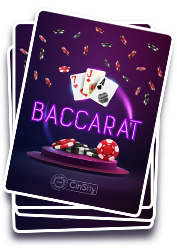
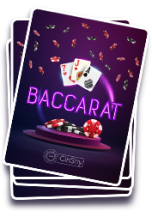
resized some assets and update positions

diff --git a/src/pages/Games/Baccarat/index.jsx b/src/pages/Games/Baccarat/index.jsx
@@ -1,6 +1,6 @@
 import React from "react";
 import MainLayout from "../../../components/MainLayout";
-import { font } from "./utils/fonts";
+import { font, font2 } from "./utils/fonts";
 import { aboutContentImage, aboutWindowImage, backgroundImage, betBarImage, btnAboutImage, btnClearImage, btnDealImage, btnFullscreenImage, btnMenuImage, btnPlayImage, btnSoundImage, btnStandImage, cardBackImage, cardClubTenImage, cardClubAImage, cardClubTwoImage, cardClubThreeImage, cardClubFourImage, cardClubFiveImage, cardClubSixImage, cardClubSevenImage, cardClubEightImage, cardClubNineImage, cardClubJImage, cardClubKImage, cardClubQImage, cardDiamondTenImage, cardDiamondAImage, cardDiamondTwoImage, cardDiamondThreeImage, cardDiamondFourImage, cardDiamondFiveImage, cardDiamondSixImage, cardDiamondSevenImage, cardDiamondEightImage, cardDiamondNineImage, cardDiamondJImage, cardDiamondKImage, cardDiamondQImage, cardHeartTenImage, cardHeartAImage, cardHeartTwoImage, cardHeartThreeImage, cardHeartFourImage, cardHeartFiveImage, cardHeartSixImage, cardHeartSevenImage, cardHeartEightImage, cardHeartNineImage, cardHeartJImage, cardHeartKImage, cardHeartQImage, cardsImage, cardSpadeTenImage, cardSpadeAImage, cardSpadeTwoImage, cardSpadeThreeImage, cardSpadeFourImage, cardSpadeFiveImage, cardSpadeSixImage, cardSpadeSevenImage, cardSpadeEightImage, cardSpadeNineImage, cardSpadeJImage, cardSpadeKImage, cardSpadeQImage, cardValueImage, chipsImage, chipsStackImage, gameTitleImage, highlightImage, historyImage, loseImage, moneyBarImage, selectedBankerImage, selectedPlayerImage, selectedTieImage, tieImage, totalBetBarImage, txtBankerImage, txtPlayerImage, winImage } from "./utils/images";
 import { cardPlaceMfa, cardPlaceOgg, cardShoveMfa, cardShoveOgg, chipsCollideMfa, chipsCollideOgg, chipsHandleMfa, chipsHandleOgg, clickMfa, clickOgg, tieMfa, tieOgg, youLoseMfa, youLoseOgg, youWinMfa, youWinOgg } from "./utils/sounds";
 import "./index.css";
@@ -65,7 +65,7 @@ class Baccarat extends React.Component {
 		border.setTransform(260, 446);
 
 		let title = new window.createjs.Bitmap(gameTitleImage);
-		title.setTransform(600, 260);
+		title.setTransform(630, 290);
 		title.regX = 732/2;
 		title.regY = 312/2;
 
@@ -210,6 +210,22 @@ class Baccarat extends React.Component {
 			"images": [font],
 			"frames": {"width":27,"height":44,"count":10,"regX":27/2,"regY":44/2}
 		});
+		this.font2 = new window.createjs.SpriteSheet({
+			"animations": {
+				"0": {"frames": [0]},
+				"1": {"frames": [1]},
+				"2": {"frames": [2]},
+				"3": {"frames": [3]},
+				"4": {"frames": [4]},
+				"5": {"frames": [5]},
+				"6": {"frames": [6]},
+				"7": {"frames": [7]},
+				"8": {"frames": [8]},
+				"9": {"frames": [9]},
+			},
+			"images": [font2],
+			"frames": {"width":27,"height":44,"count":10,"regX":27/2,"regY":44/2}
+		});
 		this.toMenu();
 	}
 
@@ -234,7 +250,7 @@ class Baccarat extends React.Component {
 		let background = new window.createjs.Bitmap(this.img("bgMenu"));
 
 		let title = new window.createjs.Bitmap(this.img("game_title"));
-		title.setTransform(600, 260);
+		title.setTransform(630, 290);
 		title.regX = title.getBounds().width/2;
 		title.regY = title.getBounds().height/2;
 
@@ -336,11 +352,11 @@ class Baccarat extends React.Component {
 
 		for(let i=0; i<3; i++) {
 			let child = this.bet_bar.getChildAt(i);
-			let s = new window.createjs.BitmapText("", this.font);
+			let s = new window.createjs.BitmapText("", this.font2);
 			s.textAlign = "center";
 			s.setTransform(child.x, child.y);
 			s.name = child.name;
-			s.scaleX = s.scaleY = 0.5;
+			s.scaleX = s.scaleY = 0.7;
 			this.bet_txts.addChild(s);
 		}
 
@@ -356,11 +372,11 @@ class Baccarat extends React.Component {
 		let count_y = 0;
 
 		for(let i=0; i<10; i++) {
-			let s = new window.createjs.BitmapText("", this.font);
+			let s = new window.createjs.BitmapText("", this.font2);
 			s.textAlign = "center"
 			s.setTransform(start_x + (space_x * count_x), start_y + (space_y * count_y));
 			s.id = i;
-			s.scaleX = s.scaleY = 0.4;
+			s.scaleX = s.scaleY = 0.6;
 			this.txt_history.addChild(s);
 
 			count_x++;
@@ -392,7 +408,7 @@ class Baccarat extends React.Component {
 		this.txt_bet = new window.createjs.BitmapText(this.bet.toString(), this.font);
 		this.txt_bet.textAlign = "center";
 		this.txt_bet.setTransform(1040, 478);
-		this.txt_bet.scaleX = this.txt_bet.scaleY = 0.7;
+		this.txt_bet.scaleX = this.txt_bet.scaleY = 0.85;
 
 		this.b_clear = new window.createjs.Bitmap(this.img("btn_clear"));
 		this.b_clear.setTransform(1160, 478);
@@ -409,14 +425,14 @@ class Baccarat extends React.Component {
 			this.chips_move.removeAllChildren();
 		}.bind(this));
 
-		this.txt_player = new window.createjs.BitmapText("", this.font);
+		this.txt_player = new window.createjs.BitmapText("", this.font2);
 		this.txt_player.setTransform(this.value_bar_1.x, this.value_bar_1.y);
-		this.txt_player.scaleX = this.txt_player.scaleY = 0.6;
+		this.txt_player.scaleX = this.txt_player.scaleY = 0.7;
 		this.txt_player.textAlign = "center";
 
-		this.txt_dealer = new window.createjs.BitmapText("", this.font);
+		this.txt_dealer = new window.createjs.BitmapText("", this.font2);
 		this.txt_dealer.setTransform(this.value_bar_2.x, this.value_bar_2.y);
-		this.txt_dealer.scaleX = this.txt_dealer.scaleY = 0.6;
+		this.txt_dealer.scaleX = this.txt_dealer.scaleY = 0.7;
 		this.txt_dealer.textAlign = "center";
 
 		this.stage.addChild(background, t_player, t_banker, history, this.txt_history, this.highlights, this.selected, this.cards, this.card_back, this.card_pack, this.chips_move, this.chips);
@@ -557,9 +573,9 @@ class Baccarat extends React.Component {
 			btnSound.alpha = 0.4;
 		}
 		
-		this.txt_cash = new window.createjs.BitmapText(this.cur_cash.toString(), this.font);
+		this.txt_cash = new window.createjs.BitmapText(this.cur_cash.toString(), this.font2);
 		this.txt_cash.setTransform(140, 54);
-		this.txt_cash.scaleX = this.txt_cash.scaleY = 0.7;
+		this.txt_cash.scaleX = this.txt_cash.scaleY = 0.9;
 		this.stage.addChild(this.txt_cash);
 	}
 

diff --git a/src/pages/Games/Baccarat/utils/fonts.jsx b/src/pages/Games/Baccarat/utils/fonts.jsx
@@ -1,7 +1,7 @@
 import font from "../assets/font/font.png";
-import spriteFont from "../assets/font/spritefont.png";
+import font2 from "../assets/font/font_2.png";
 
 export {
     font,
-    spriteFont
+    font2
 }
